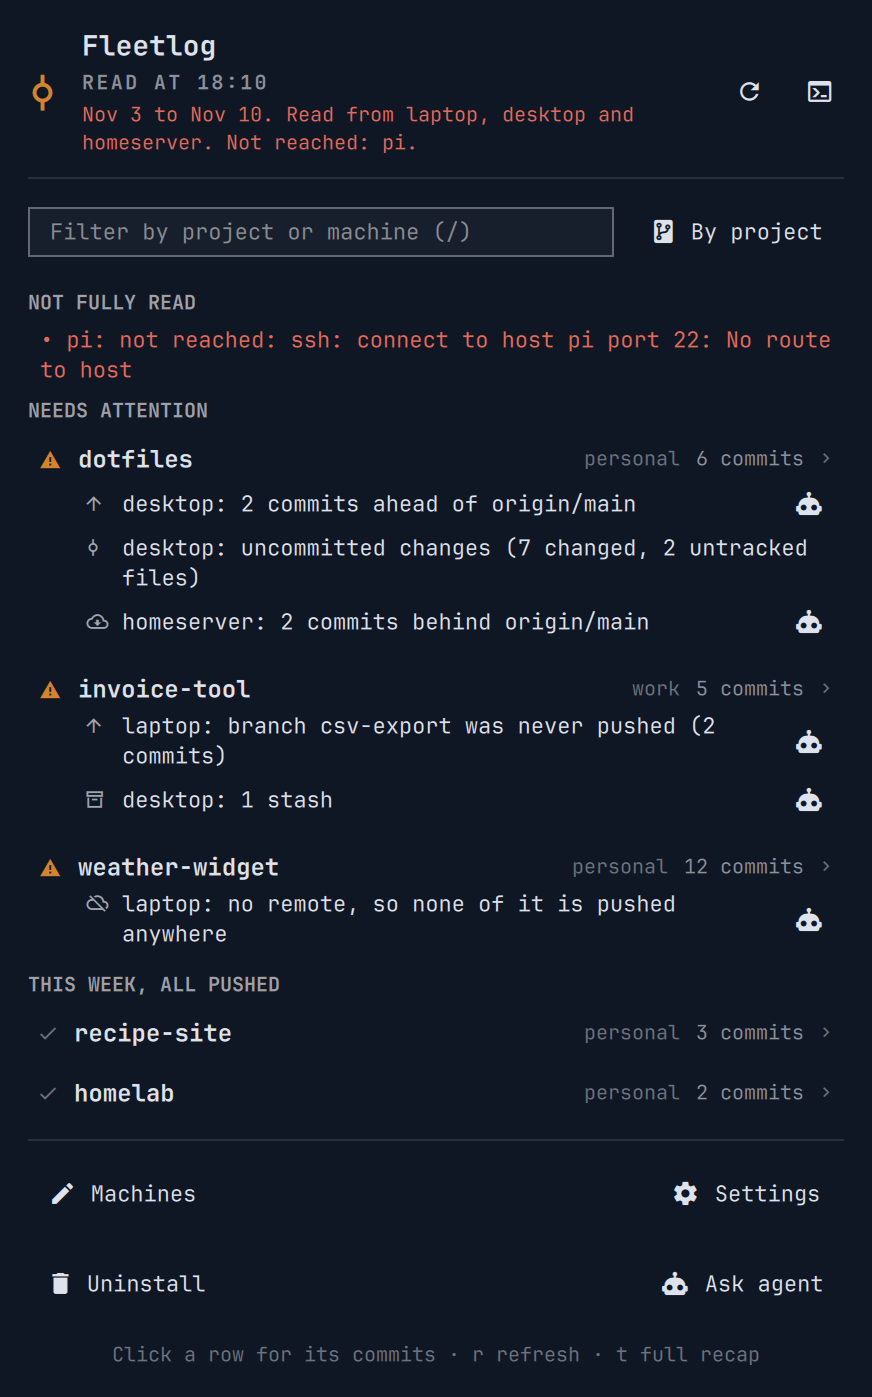
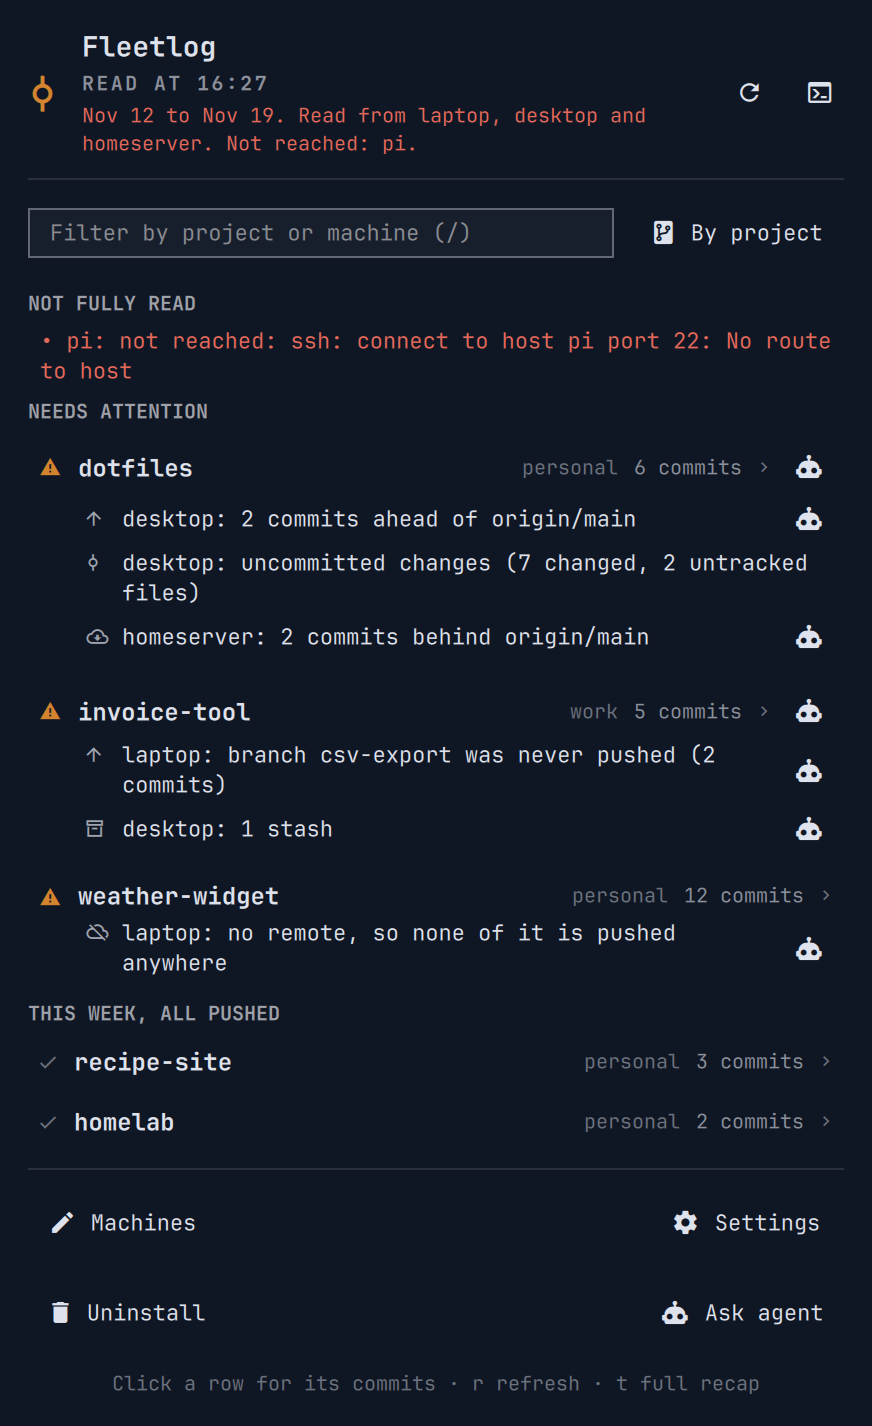
The README pictures show the agent button on a row
Retaken with demo/run, by machine and by project: laptop and desktop, and
dotfiles and invoice-tool, each have an agent button for all of their lines.

diff --git a/README.md b/README.md
@@ -6,8 +6,8 @@
 
 <p align="center"><a href="https://github.com/tcballard/omarchy-badges"><img alt="Built for Omarchy: Plugin" height="20" src="https://raw.githubusercontent.com/tcballard/omarchy-badges/75975e5b5bf75e7ede3764bcd2950046f7abfe2c/badges/v1/omarchy-plugin.svg"></a></p>
 
-<p align="center"><img alt="The fleetlog panel for a fictional fleet, grouped by machine: laptop has a branch never pushed and a repo with no remote, desktop has commits not pushed, uncommitted changes and a stash, and homeserver's dotfiles are 2 commits behind what the others fetched. Each line has an icon for its kind and an agent button. Below are this week's projects, above a filter field and a By machine switch, and one machine was not reached. The footer has Machines, Settings, Uninstall and Ask agent" src="preview.png" width="390" valign="top">
-<img alt="The same fleet grouped by project: dotfiles is ahead and has uncommitted changes on desktop and is 2 commits behind on homeserver, invoice-tool has a branch never pushed on laptop and a stash on desktop, and weather-widget has no remote. recipe-site and homelab are all pushed this week" src="preview-project.png" width="390" valign="top"></p>
+<p align="center"><img alt="The fleetlog panel for a fictional fleet, grouped by machine: laptop has a branch never pushed and a repo with no remote, desktop has commits not pushed, uncommitted changes and a stash, and homeserver's dotfiles are 2 commits behind what the others fetched. Each line has an icon for its kind and an agent button, and laptop and desktop, with more than one, have one for all of it. Below are this week's projects, above a filter field and a By machine switch, and one machine was not reached. The footer has Machines, Settings, Uninstall and Ask agent" src="preview.png" width="390" valign="top">
+<img alt="The same fleet grouped by project: dotfiles is ahead and has uncommitted changes on desktop and is 2 commits behind on homeserver, invoice-tool has a branch never pushed on laptop and a stash on desktop, and weather-widget has no remote. dotfiles and invoice-tool, left off on two machines each, have an agent button for all of it. recipe-site and homelab are all pushed this week" src="preview-project.png" width="390" valign="top"></p>
 
 <p align="center">What is left off, by machine and by project: <code>g</code> switches between them.</p>
 
